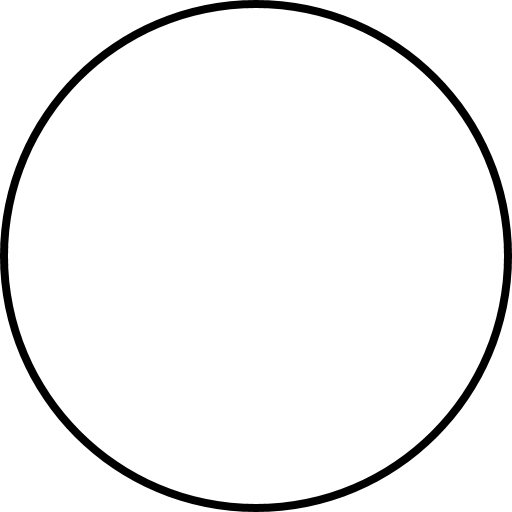
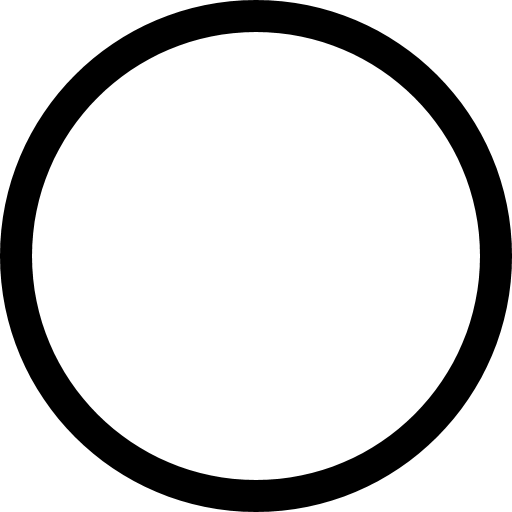
Added instancing rendering

Changed region(s): [[0.0, 0.0, 1.0, 1.0]]

diff --git a/Assets/Code/Rendering/InstancedSpriteRendererSystem.cs b/Assets/Code/Rendering/InstancedSpriteRendererSystem.cs
@@ -1,0 +1,94 @@
+using System.Collections.Generic;
+using RedsAndBlues.Code.PhysicsEngine.Components;
+using Unity.Collections;
+using Unity.Entities;
+using Unity.Mathematics;
+using Unity.Transforms;
+using UnityEngine;
+using UnityEngine.PlayerLoop;
+
+namespace RedsAndBlues.Code.Rendering
+{
+    [UpdateInGroup(typeof(PresentationSystemGroup))]
+    public class InstancedSpriteRendererSystem : ComponentSystem
+    {
+        private const int MatricesCapacity = 1023; // max 1023
+
+        private readonly Matrix4x4[] _matrices = new Matrix4x4[MatricesCapacity];
+        private EntityQuery _spriteGroup;
+
+        private List<SpriteRenderComponent> _uniqueComponents = new List<SpriteRenderComponent>();
+        private Mesh mesh;
+
+        protected override void OnCreate()
+        {
+            base.OnCreate();
+
+            var query = new EntityQueryDesc
+            {
+                All = new ComponentType[]
+                {
+                    typeof(SpriteRenderComponent), typeof(LocalToWorld)
+                }
+            };
+
+            _spriteGroup = GetEntityQuery(query);
+
+            mesh = CreateQuad();
+        }
+
+        protected override void OnUpdate()
+        {
+            EntityManager.GetAllUniqueSharedComponentData(_uniqueComponents);
+            foreach (var renderInfo in _uniqueComponents)
+            {
+                if (renderInfo.Material == null) continue;
+
+                if (!renderInfo.Material.enableInstancing)
+                {
+                    renderInfo.Material.enableInstancing = true;
+                }
+
+                _spriteGroup.SetSharedComponentFilter(renderInfo);
+                var transforms = _spriteGroup.ToComponentDataArray<LocalToWorld>(Allocator.TempJob);
+
+                int beginIndex = 0;
+                while (beginIndex < transforms.Length)
+                {
+                    int length = math.min(_matrices.Length, transforms.Length - beginIndex);
+                    DumpFloat4X4ToMatrix4X4Array(transforms, beginIndex, length);
+
+                    Graphics.DrawMeshInstanced(renderInfo.Mesh, 0, renderInfo.Material, _matrices, length);
+
+                    beginIndex += length;
+                }
+
+                transforms.Dispose();
+            }
+
+            _uniqueComponents.Clear();
+        }
+
+        private void DumpFloat4X4ToMatrix4X4Array(NativeArray<LocalToWorld> transforms, int beginIndex, int length)
+        {
+            for (int i = 0; i < length; i++)
+            {
+                _matrices[i] = transforms[beginIndex + i].Value;
+            }
+        }
+
+        private static Mesh CreateQuad()
+        {
+            return new Mesh
+            {
+                vertices = new[]
+                {
+                    new Vector3(0, 0, 0),
+                    new Vector3(1, 0, 0),
+                    new Vector3(0, 1, 0),
+                    new Vector3(1, 1, 0)
+                }
+            };
+        }
+    }
+}

diff --git a/Assets/Code/Blobs/BlobsSpawner.cs b/Assets/Code/Blobs/BlobsSpawner.cs
@@ -1,5 +1,6 @@
 using RedsAndBlues.Code.PhysicsEngine;
 using RedsAndBlues.Code.PhysicsEngine.Components;
+using RedsAndBlues.Code.Rendering;
 using Unity.Entities;
 using Unity.Mathematics;
 using Unity.Transforms;
@@ -20,11 +21,13 @@ namespace RedsAndBlues.Code.Blobs
             _ballArchetype = _manager.CreateArchetype
             (
                 typeof(Translation),
-                typeof(LocalToWorld),
                 typeof(CircleColliderComponent),
                 typeof(CollisionInfoElementData),
                 typeof(VelocityComponent),
-                typeof(BlobPropertiesComponent)
+                typeof(BlobPropertiesComponent),
+                typeof(LocalToWorld),
+                typeof(SpriteRenderComponent),
+                typeof(Scale)
             );
         }
 
@@ -39,7 +42,7 @@ namespace RedsAndBlues.Code.Blobs
                 Random.Range(-.5f, .5f) * spawnSettings.GameAreaSettings.Height,
                 spawnSettings.ZPosition
             );
-            
+
             var entity = _manager.CreateEntity(_ballArchetype);
 
             _manager.SetComponentData(entity, new CircleColliderComponent
@@ -61,6 +64,12 @@ namespace RedsAndBlues.Code.Blobs
             _manager.SetComponentData(entity, new BlobPropertiesComponent
             {
                 DestroyRadius = spawnSettings.DestroyRadius
+            });
+
+            _manager.SetSharedComponentData(entity, new SpriteRenderComponent
+            {
+                Material = isRed ? spawnSettings.RedBlobMaterial : spawnSettings.BlueBlobMaterial,
+                Mesh = spawnSettings.Mesh
             });
 
             _spawnedCount++;

diff --git a/Assets/Code/Blobs/BlobSpawnSettings.cs b/Assets/Code/Blobs/BlobSpawnSettings.cs
@@ -13,7 +13,8 @@ namespace RedsAndBlues.Code.Blobs
         public readonly float DestroyRadius;
         public readonly GameAreaSettings GameAreaSettings;
         public readonly Mesh Mesh;
-        public readonly Material Material;
+        public readonly Material RedBlobMaterial;
+        public readonly Material BlueBlobMaterial;
 
         public BlobSpawnSettings
         (
@@ -21,17 +22,18 @@ namespace RedsAndBlues.Code.Blobs
             float minUnitSpeed, float maxUnitSpeed,
             float destroyRadius,
             float zPosition,
-            GameAreaSettings gameAreaSettings, Mesh mesh, Material material)
+            GameAreaSettings gameAreaSettings, Mesh mesh, Material redBlobMaterial, Material blueBlobMaterial)
         {
             MinUnitRadius = minUnitRadius;
             MaxUnitRadius = maxUnitRadius;
             MinUnitSpeed = minUnitSpeed;
             MaxUnitSpeed = maxUnitSpeed;
-            GameAreaSettings = gameAreaSettings;
-            Mesh = mesh;
-            Material = material;
             DestroyRadius = destroyRadius;
             ZPosition = zPosition;
+            GameAreaSettings = gameAreaSettings;
+            Mesh = mesh;
+            RedBlobMaterial = redBlobMaterial;
+            BlueBlobMaterial = blueBlobMaterial;
         }
     }
 }

diff --git a/Assets/Code/Bootstrap.cs b/Assets/Code/Bootstrap.cs
@@ -19,7 +19,10 @@ namespace RedsAndBlues.Code
         private Mesh _blobMesh;
 
         [SerializeField]
-        private Material _blobMaterial;
+        private Material _redBlobMaterial;
+        
+        [SerializeField]
+        private Material _blueBlobMaterial;
 
         private GameConfig _config;
         private EntityManager _manager;
@@ -48,7 +51,7 @@ namespace RedsAndBlues.Code
                 _config.MinUnitRadius, _config.MaxUnitRadius,
                 _config.MinUnitSpeed, _config.MaxUnitSpeed,
                 0.2f, -1, _gameAreaSettings,
-                _blobMesh, _blobMaterial
+                _blobMesh, _redBlobMaterial, _blueBlobMaterial
             );
 
             _blobsSpawner = new BlobsSpawner(_manager);

diff --git a/Assets/Code/Rendering/SpriteRenderComponent.cs b/Assets/Code/Rendering/SpriteRenderComponent.cs
@@ -1,0 +1,27 @@
+using System;
+using Unity.Entities;
+using UnityEngine;
+
+namespace RedsAndBlues.Code.Rendering
+{
+    public struct SpriteRenderComponent : ISharedComponentData, IEquatable<SpriteRenderComponent>
+    {
+        public Mesh Mesh;
+        public Material Material;
+
+        public bool Equals(SpriteRenderComponent other)
+        {
+            return Equals(Material, other.Material);
+        }
+
+        public override bool Equals(object obj)
+        {
+            return obj is SpriteRenderComponent other && Equals(other);
+        }
+
+        public override int GetHashCode()
+        {
+            return (Material != null ? Material.GetHashCode() : 0);
+        }
+    }
+}

diff --git a/Assets/Code/PhysicsEngine/Systems/RadiusToScaleSystem.cs b/Assets/Code/PhysicsEngine/Systems/RadiusToScaleSystem.cs
@@ -1,0 +1,19 @@
+using JetBrains.Annotations;
+using RedsAndBlues.Code.PhysicsEngine.Components;
+using Unity.Entities;
+using Unity.Transforms;
+
+namespace RedsAndBlues.Code.PhysicsEngine.Systems
+{
+    [UpdateInGroup(typeof(InitializationSystemGroup)), UsedImplicitly]
+    public class RadiusToScaleSystem : SystemBase
+    {
+        protected override void OnUpdate()
+        {
+            Entities.ForEach((ref Scale scale, in CircleColliderComponent collider) =>
+            {
+                scale.Value = collider.Radius * 2f;
+            }).Run();
+        }
+    }
+}

diff --git a/Assets/Code/PhysicsEngine/Systems/ClearCollisionInfoBuffersSystem.cs b/Assets/Code/PhysicsEngine/Systems/ClearCollisionInfoBuffersSystem.cs
@@ -6,10 +6,6 @@ namespace RedsAndBlues.Code.PhysicsEngine.Systems
     [UpdateInGroup(typeof(InitializationSystemGroup))]
     public class ClearCollisionInfoBuffersSystem : ComponentSystem
     {
-        protected override void OnCreate()
-        {
-        }
-
         protected override void OnUpdate()
         {
             Entities
